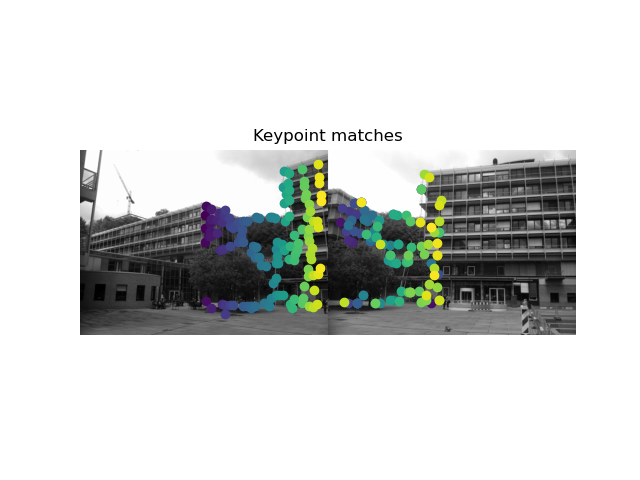
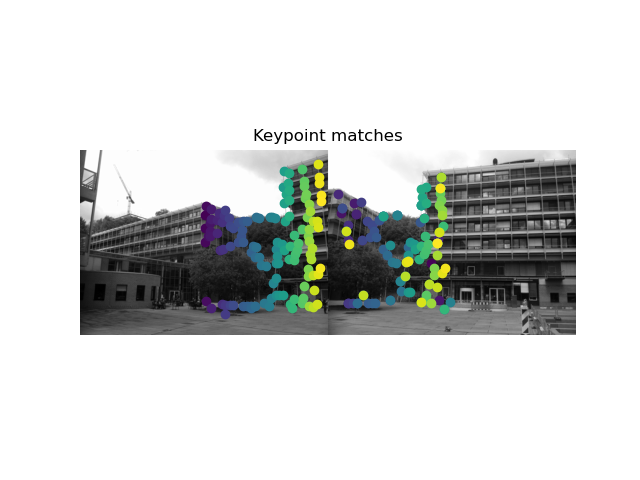
solved task 2 (found bug in homography computation

Changed region(s): [[0.5, 0.3438, 0.7188, 0.6562], [0.5, 0.375, 0.5312, 0.4062]]

diff --git a/Assignment 3/problem2.py b/Assignment 3/problem2.py
@@ -14,14 +14,13 @@ class Problem2:
             distances: (n, m) numpy array, pairwise distances
         """
         # initialise distance matrix
-        distances = np.zeros((features1.shape[1], features2.shape[1]))
+        distances = np.zeros((features2.shape[1], features1.shape[1]))
         # iterate through all pairs of features
         for m in range(features1.shape[1]):
             for n in range(features2.shape[1]):
                 # compute squared euclidean distance as given in the task description
-                distances[m, n] = np.linalg.norm(features1[:, m] - features2[:, n])**2
+                distances[n, m] = (np.linalg.norm(features1[:, m] - features2[:, n]))**2
         return distances
-
 
     def find_matches(self, p1, p2, distances):
         """ Find pairs of corresponding interest points given the
@@ -150,7 +149,7 @@ class Problem2:
             A[2*l+1, 2] = -1
             A[2*l+1, 6] = p1[l, 0] * p2[l, 0]
             A[2*l+1, 7] = p1[l, 1] * p2[l, 0]
-            A[2*l+1, 8] = p2[l, 1]
+            A[2*l+1, 8] = p2[l, 0]
 
         # perform SVD
         u, s, vh = np.linalg.svd(A)
@@ -292,15 +291,15 @@ class Problem2:
         # run ransac algorithm for n_iters
         for n in range(n_iters):
             # random sample of k points
-            # use cartesian coordinates (we know that third entry is 1 so can just ignore and dont need to normalize)
+            # use cartesian coordinates (we know that third entry is 1 so can just ignore -> already normalized)
             sample1, sample2 = self.pick_samples(p1[:, :2], p2[:, :2], k)
 
             # compute homography
             temp_H, temp_HC = self.compute_homography(sample1, sample2, T1, T2)
 
             # compute distances
-            dist = self.compute_homography_distance(temp_HC, p1[:, :2], p2[:, :2])
-            #dist = self.compute_homography_distance(temp_H, pairs[:, :2], pairs[:, 2:4])
+            #dist = self.compute_homography_distance(temp_HC, p1[:, :2], p2[:, :2])
+            dist = self.compute_homography_distance(temp_H, pairs[:, :2], pairs[:, 2:4])
             # evaluate homography
             tmp_N, tmp_inliers = self.find_inliers(pairs, dist, threshold)
 
